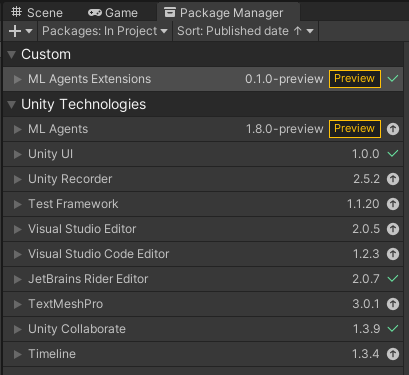
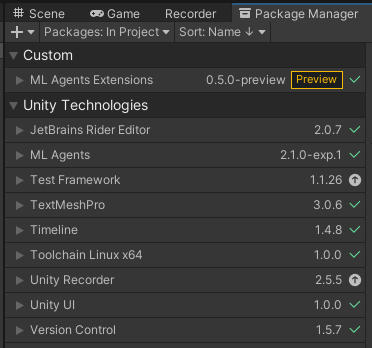
v2.0 is under way. Updated README file to use for new implementation, but the source code was not updated yet

diff --git a/README.md b/README.md
@@ -11,19 +11,19 @@ S. Makri and P. Charalambous, "Towards a multi-agent non-player character road n
 #### Prerequisites
 The TrafficFlow package is implemented in the Unity game engine and utilises the ML-Agents Toolkit. Thus, installation of the following is a prerequisite:
 
-- Install Unity (2018.4 or later)
+- Install Unity (2019.4 or later)
 - Install Python (3.6.1 or higher)
-- Clone the [ml-agents repository](https://github.com/Unity-Technologies/ml-agents/tree/release_13) (release_13).
-- Install the `mlagents` Python package (0.24.0)
+- Clone the [ml-agents repository](https://github.com/Unity-Technologies/ml-agents/tree/release_18) (release_18).
+- Install the `mlagents` Python package (0.27.0)
 
-You can refer to the [ml-agents repository documentation](https://github.com/Unity-Technologies/ml-agents/blob/release_13_docs/docs/Installation.md) for more details. We recomend that you follow the [local installation for development](https://github.com/Unity-Technologies/ml-agents/blob/release_13_docs/docs/Installation.md#advanced-local-installation-for-development-2) instructions when installing the `mlagents` Python package.
+You can refer to the [ml-agents repository documentation](https://github.com/Unity-Technologies/ml-agents/blob/release_18_docs/docs/Installation.md) for more details. We recomend that you follow the [local installation for development](https://github.com/Unity-Technologies/ml-agents/blob/release_18_docs/docs/Installation.md#advanced-local-installation-for-development-2) instructions when installing the `mlagents` Python package.
 **NOTE:** You may wish to omit installing the `com.unity.ml-agents` and `com.unity.ml-agents.extensions` Unity packages for the time being. We will come back to this later.
 
 #### Download the Trafficflow repository
 Clone this repository.
 
 ```sh
-git clone --branch v1.1 https://github.com/CYENS/TrafficFlow.git
+git clone --branch v2.0 https://github.com/CYENS/TrafficFlow.git
 
 ```
 
@@ -34,8 +34,8 @@ You then need to edit the `./Packages/manifest.json` and `.Packages/packages-loc
 #### Installing the ML-Agents Unity package
 Open the `TrafficFlow` project in Unity. You should check that the following Unity packages are listed in the Package Manager.
 
-- `com.unity.ml-agents` Unity package (1.8.0-preview)
-- `com.unity.ml-agents.extensions` Unity package (0.1.0-preview)
+- `com.unity.ml-agents` Unity package (2.1.0-exp.1)
+- `com.unity.ml-agents.extensions` Unity package (0.5.0-preview)
 
 <p align="center">
   <img src="docs/images/check_package_manager.png"
@@ -44,7 +44,7 @@ Open the `TrafficFlow` project in Unity. You should check that the following Uni
        border="10" />
 </p>
 
-You can also install these mannually by [adding the local](https://docs.unity3d.com/Manual/upm-ui-local.html) `com.unity.ml-agents` and `com.unity.ml-agents.extensions` packages from the `ml-agents` repository that you have already cloned. You simply need to locate the respective `package.json` files which are found in the `ml-agents/com.unity.ml-agents/` and `ml-agents/com.unity.ml-agents.extensions/` folders. For more details please refer to the [local installation for development](https://github.com/Unity-Technologies/ml-agents/blob/release_13_docs/docs/Installation.md#advanced-local-installation-for-development-1) instructions.
+You can also install these mannually by [adding the local](https://docs.unity3d.com/Manual/upm-ui-local.html) `com.unity.ml-agents` and `com.unity.ml-agents.extensions` packages from the `ml-agents` repository that you have already cloned. You simply need to locate the respective `package.json` files which are found in the `ml-agents/com.unity.ml-agents/` and `ml-agents/com.unity.ml-agents.extensions/` folders. For more details please refer to the [local installation for development](https://github.com/Unity-Technologies/ml-agents/blob/release_18_docs/docs/Installation.md#advanced-local-installation-for-development-1) instructions.
 
 ### Getting Started
 There are 3 scenes implemented, organised in 3 separate folders under the [`Assets`](./Assets/) folder. Pre-trained model files are provided for each environment. These are located in the respective `Models` folders.
